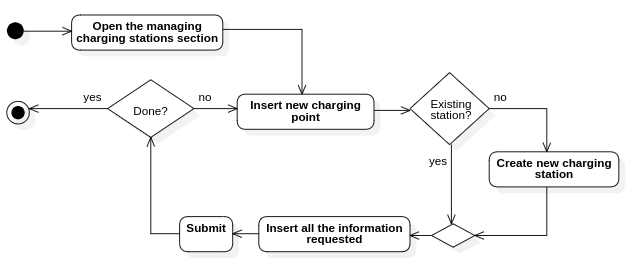
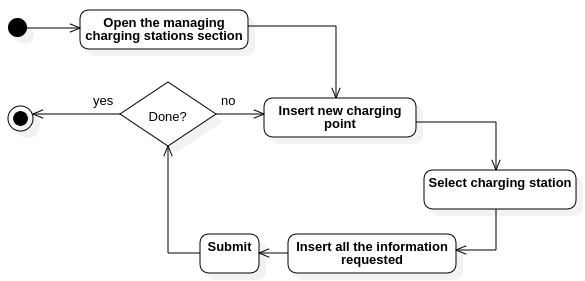
Updated a state diagram and its description

Changed region(s): [[0.0, 0.0309, 1.0, 0.9884], [0.7077, 0.278, 0.7385, 0.3089], [0.2769, 0.278, 0.3077, 0.3089]]

diff --git a/RASD/LaTeXCode/src/Chapters/2_-_Overall_Description.tex b/RASD/LaTeXCode/src/Chapters/2_-_Overall_Description.tex
@@ -61,14 +61,12 @@ It is shown a state diagram that summaries the activities in the booking process
 \end{figure}
 
 \paragraph{CPO adds charging points in its CPMS.}
-%TODO: change the order of the flow: you start adding stations and then points. Update also the diagram
 \verb|SOLARIS| is the new company of the successful businessman Hugh Peter.
 They decided to trust the \verb|eMALL| project, entrusting them with the responsibility of managing their IT infrastructure.
 After logging in, they start inserting new charging points owned by them and distributed throughout the territory.
-When they insert a new charging point that belongs to a new charging station, they create it, too.
-So, they insert all the requested information (location, costs, connectors, power, etc.).
+The first thing they are asked to select is the charging station to which the new spot belongs.
+So, they insert all the requested information (serial number, location, connectors, power, etc.).
 After they confirm and submit what they inserted, they iterate the process until they have inserted all the charging points.
-%TODO: update the state diagram following the use case
 It is shown a state diagram to summaries the activities in the charging points insertion process:
 \begin{figure}[H]
     \begin{center}
@@ -82,7 +80,7 @@ It is shown a state diagram to summaries the activities in the charging points i
 \label{subsec:scenarios}%
 
 \paragraph{Unregistered EVD creates an account.}
-Mike Hoar has his EV and is looking for an application that offers the chance to charge his vehicle and smartly plan a
+Mr. Oak has his EV and is looking for an application that offers the chance to charge his vehicle and smartly plan a
 charging process depending on the battery status and his daily schedule.
 Fortunately, he finds out \verb|eMALL|\@.
 So, he immediately proceeds to create an account.
@@ -93,7 +91,7 @@ After accepting the terms \& conditions and submitting all the inserted informat
 and he can start using the application.
 
 \paragraph{The EVD charges his/her EV.}
-After booking a charge, NomeFantasia goes to the charging station at the chosen hour.
+After booking a charge, Michael Scarn goes to the charging station at the chosen hour.
 After turning off the EV, he opens the \verb|eMALL| application and enters the charge section.
 From the set of close charging points, he selects which one has the serial number he received by \verb|eMALL| by e-mail
 when he booked the charge.
@@ -104,7 +102,7 @@ While the EV is in charge, the system notifies the EVD of the current status of 
 When the process ends, he unplugs the connector, pays through the \verb|eMALL| application, and gets back in his car.
 
 \paragraph{The EVD inserts a new activity in its calendar and receives a suggestion for a charging process.}
-Joe inserts a new activity in his calendar, specifying the hour and destination of the event.
+Jimothy inserts a new activity in his calendar, specifying the hour and destination of the event.
 After doing that, he receives a notification that shows the EVD where and when to charge his vehicle.
 The system creates suggestions to minimize the cost and the time lost at the charging station.
 It also considers special offers activated by the CPOs registered in the eMALL system.
